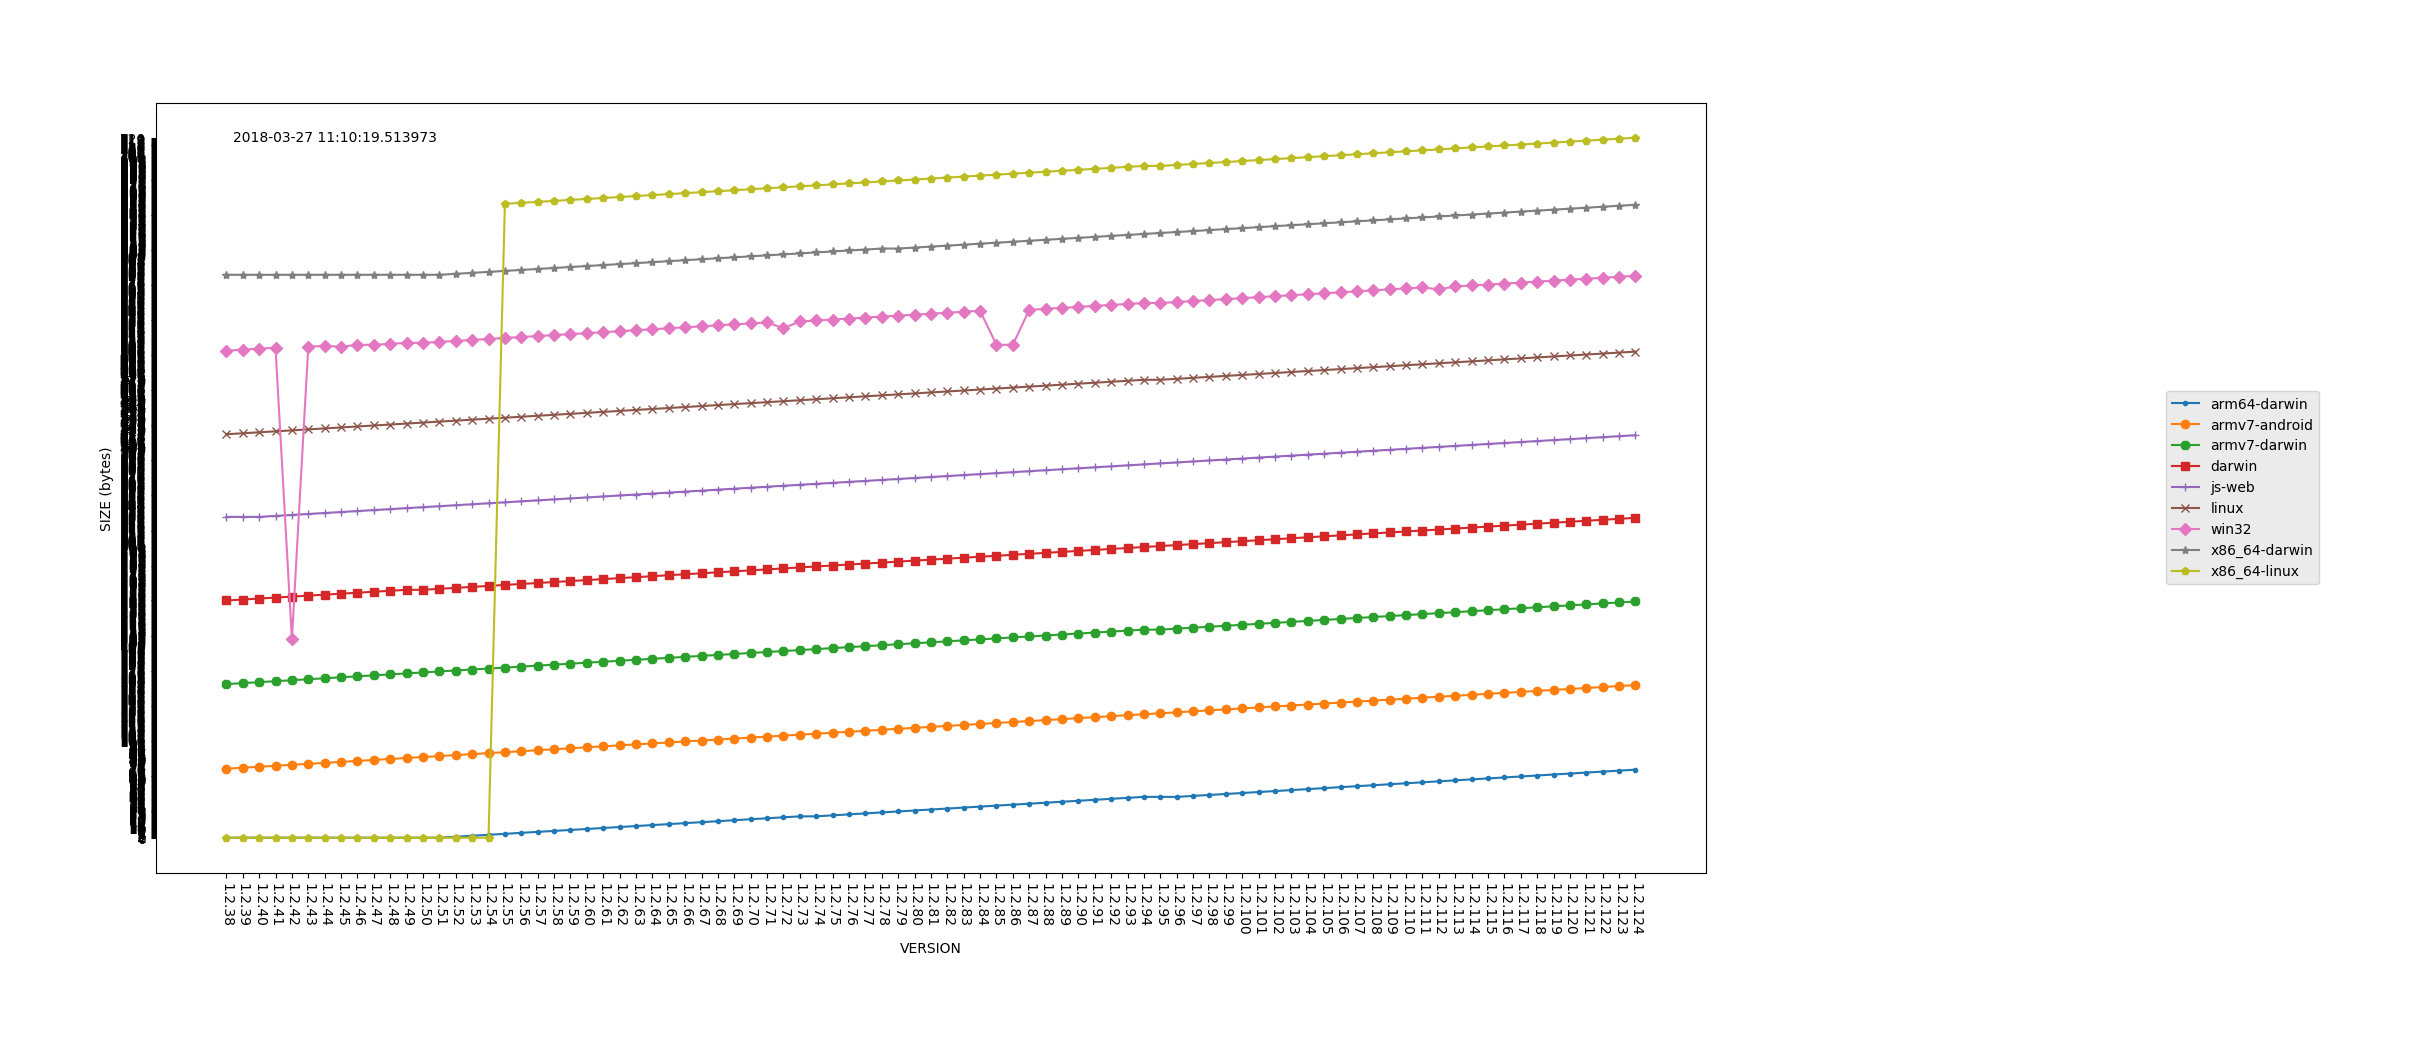
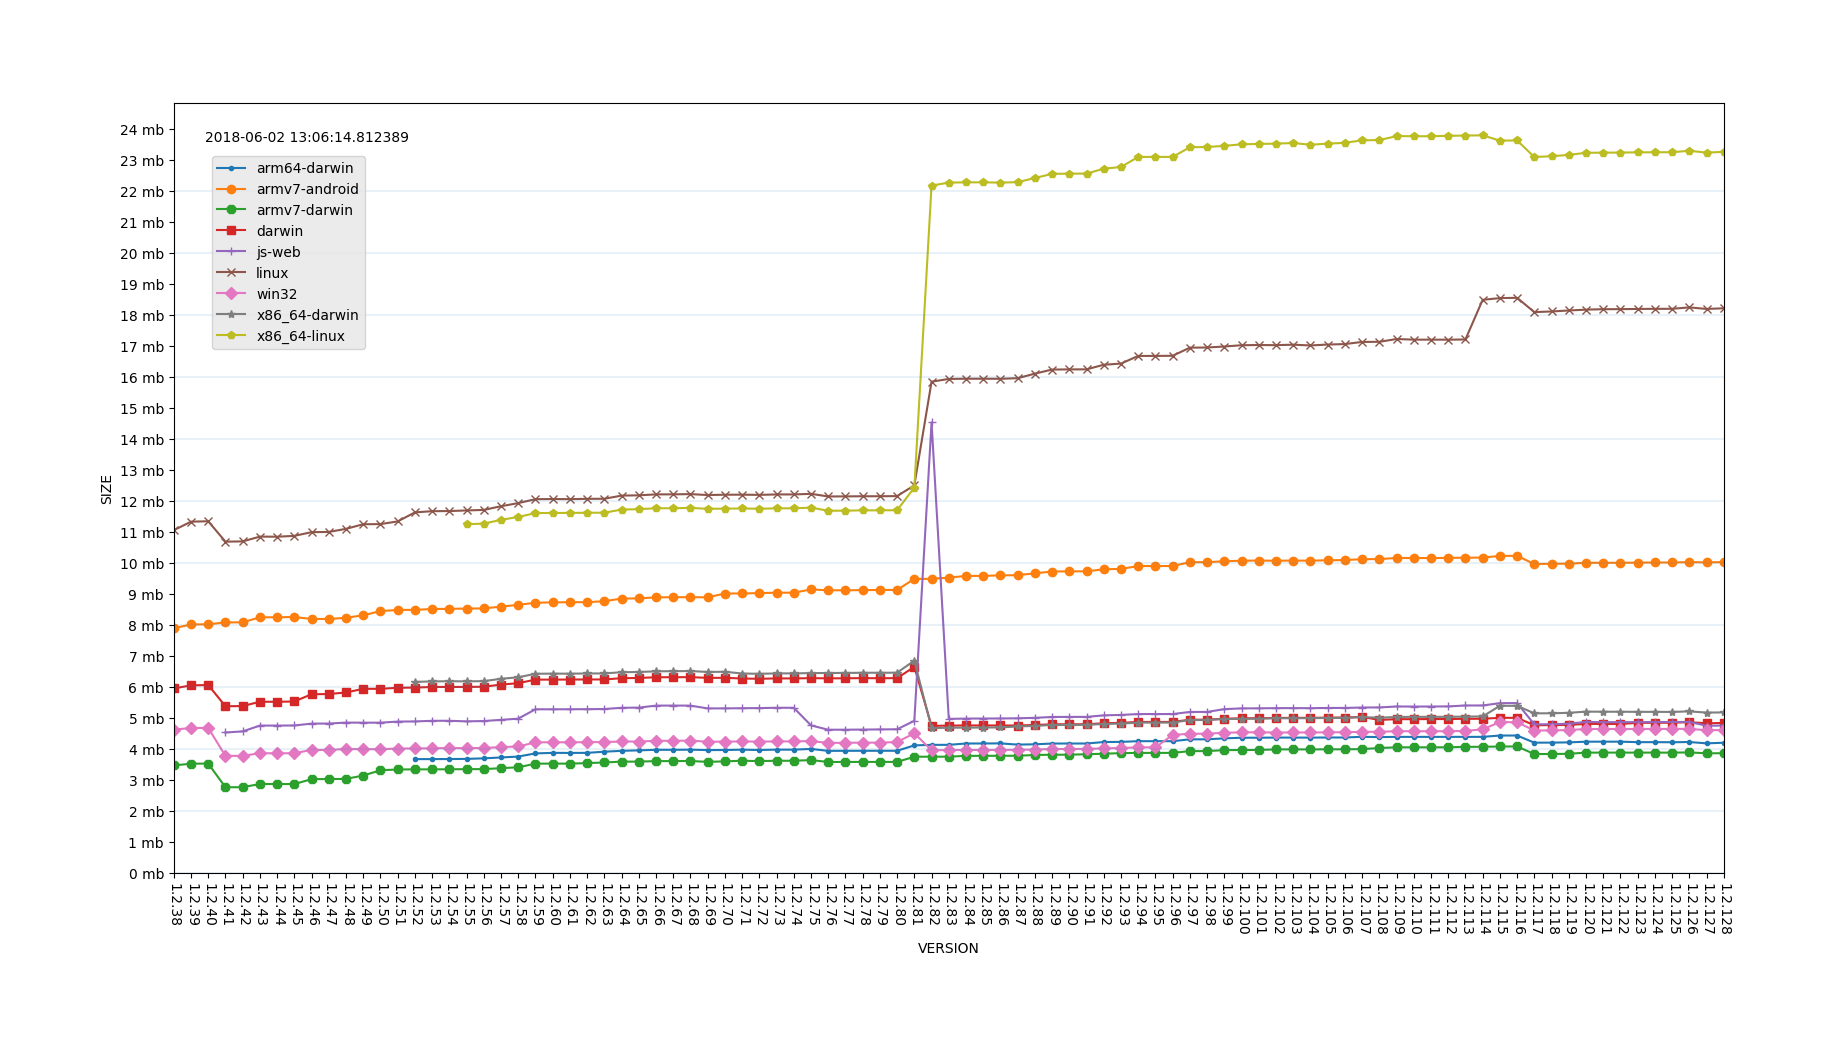
Fixed y label tags Made plot a bit easier to read

diff --git a/check_size.py b/check_size.py
@@ -12,7 +12,9 @@ from matplotlib import pyplot
 def get_size(sha1, path):
     url = "http://d.defold.com/archive/" + sha1 + "/" + path
     d = urllib.urlopen(url)
-    return d.info()['Content-Length']
+    if d.getcode() == 200:
+        return d.info()['Content-Length']
+    return 0
 
 
 engines = [
@@ -116,6 +118,10 @@ releases = [
     {"version": "1.2.122", "sha1": "fce7921da858a71876773c75920b74310ca7ac1f"},
     {"version": "1.2.123", "sha1": "46d8b7e63d7e0f0f4acd545c46d25ca2b227a806"},
     {"version": "1.2.124", "sha1": "e3f2a48e6495946eb8aede3c843471bb037976aa"},
+    {"version": "1.2.125", "sha1": "f9995611e4d5befaa75d6b6d7becdd52823e01eb"},
+    {"version": "1.2.126", "sha1": "32ba5eaa128e4b54113fb36eb4b9eff33d8582b3"},
+    {"version": "1.2.127", "sha1": "c129eafe38a95a1a69eec93679790cd29ab6c0a6"},
+    {"version": "1.2.128", "sha1": "477e0e1034b76a6f9e07fb5ead5dc10adcd2ba6d"},
 ]
 
 
@@ -148,19 +154,39 @@ def create_graph():
 
         fig, ax = pyplot.subplots(figsize=(20, 10))
         pyplot.xticks(xaxis_version, versions, rotation=270)
+        max_ysize = 0
         for engine, marker in zip(range(1, len(data[0])), itertools.cycle('.o8s+xD*p')):
             yaxis_size = [i[engine] for i in data[1::]]
+            # convert from string to int
+            yaxis_size = map(lambda x: int(x) if x > 0 else None, yaxis_size)
+            # find the max y size
+            max_ysize = max(max_ysize, max(yaxis_size))
+            # replace zero values with nan to avoid plotting them
+            yaxis_size = map(lambda x: x if x != 0 else float('nan'), yaxis_size)
             ax.plot(xaxis_version, yaxis_size, label=data[0][engine], marker=marker)
 
-        locs, labels = pyplot.yticks()
-        pyplot.yticks(locs, locs)
-        pyplot.ylabel('SIZE (bytes)')
+        # make sure the plot fills out the area (easier to see nuances)
+        ax.set_ylim(bottom=0.)
+        ax.set_xlim(left=0., right=xaxis_version[-1])
+
+        mb = 1024 * 1024
+        max_mb = (max_ysize+mb/2) // mb
+        locs = [i * mb for i in range(0, max_mb + 1)]
+
+        # create horizontal lines, to make it easier to track sizes
+        for y in range(0, max_mb*mb, 2*mb):
+            ax.axhline(y, alpha=0.1)
+
+        pyplot.yticks(locs, map(lambda x: "%d mb" % (x // mb), locs))
+        #ax.yaxis.tick_right()
+        pyplot.ylabel('SIZE')
         pyplot.xlabel('VERSION')
         # add timestamp to top-left corner of graph
-        pyplot.annotate(str(datetime.datetime.now()), xy=(0.05, 0.95), xycoords='axes fraction')
+        pyplot.annotate(str(datetime.datetime.now()), xy=(0.02, 0.95), xycoords='axes fraction')
 
         # create legend
-        legend = ax.legend(loc='center right', bbox_to_anchor=(1.4, 0.5))
+        #legend = ax.legend(loc='center right', bbox_to_anchor=(1.4, 0.5))
+        legend = ax.legend(loc='upper left', bbox_to_anchor=(0.02, 0.94))
         frame = legend.get_frame()
         frame.set_facecolor('0.90')
 
